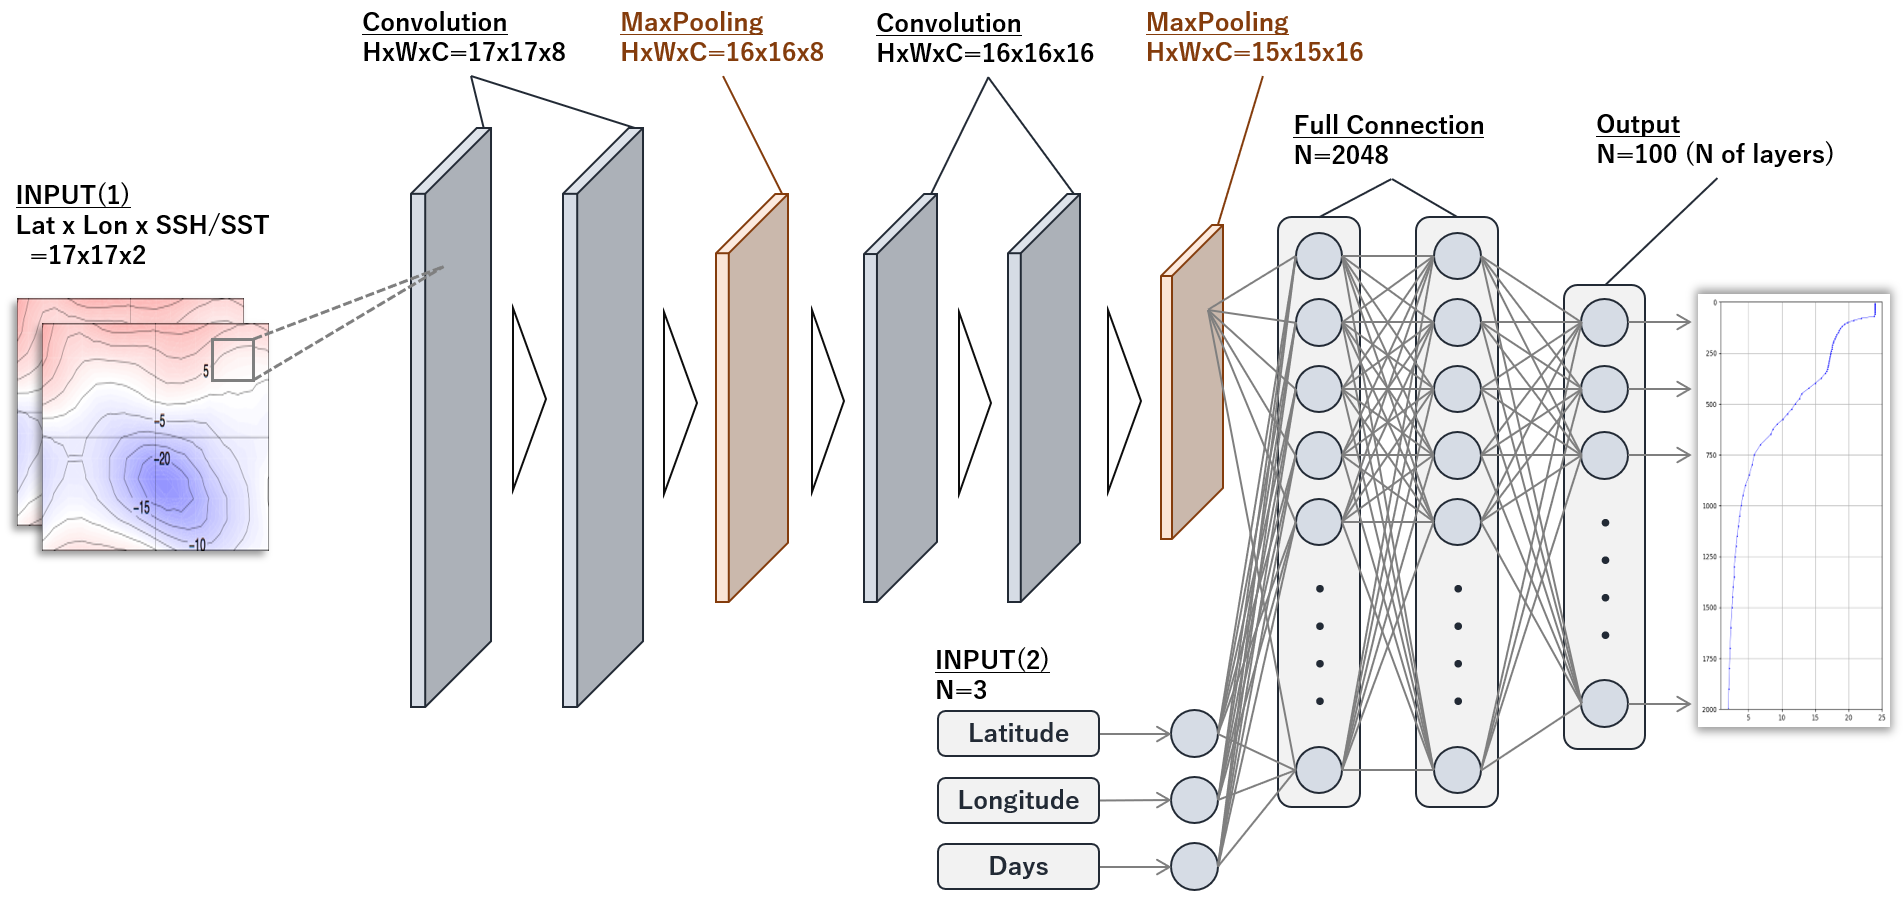
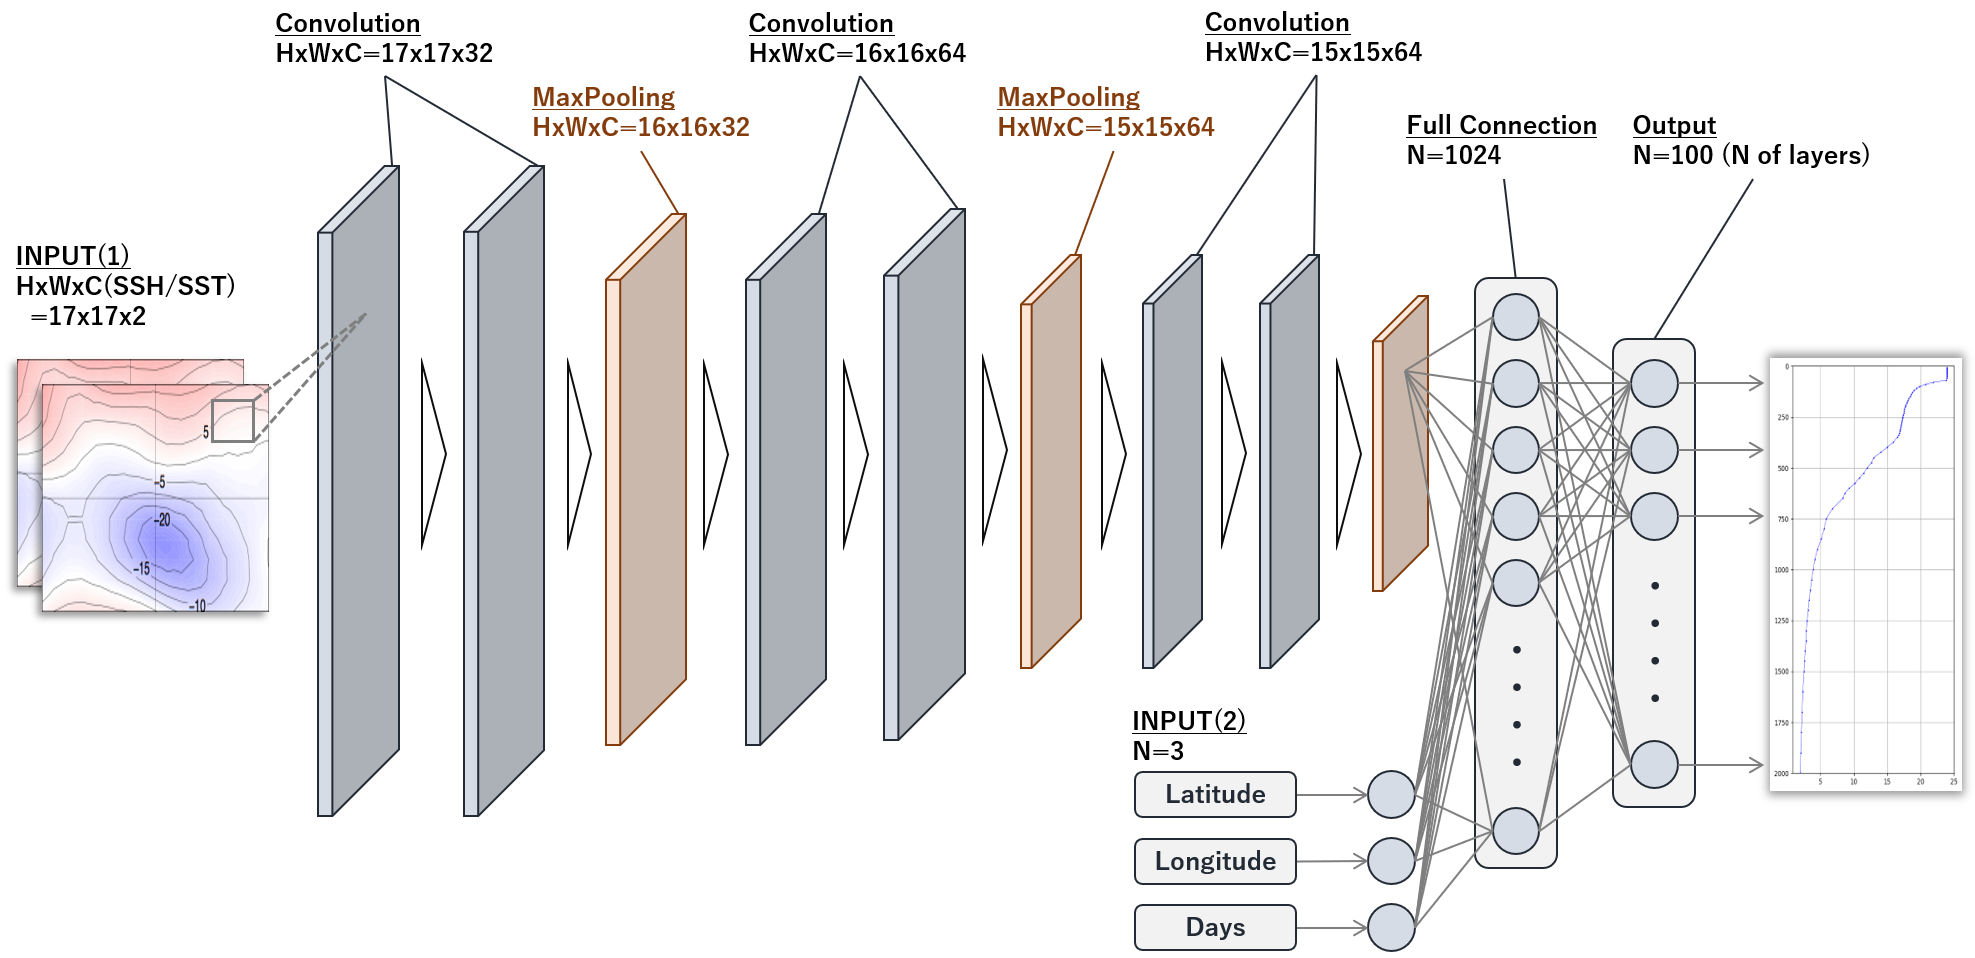
IN PRODUCTION

diff --git a/impulso.py b/impulso.py
@@ -5,20 +5,17 @@
 import os
 os.environ['IMPULSO_HOME'] = os.path.dirname(os.path.abspath(__file__))
 
+import importlib
 from pathlib import Path
 import datetime
 import argparse
+import numpy as np
+from tqdm import tqdm
+
 import src.lib.utils as utils
 from src.Aggregator import Aggregator
 from src.Preparer import Preparer
-from src.Trainer import Trainer
-from src.Inferencer import Inferencer
-"""
-from src.Evaluator import Evaluator
 
-from src.model.ImpulsoNet import ImpulsoNet
-
-"""
 from logging import DEBUG, INFO
 from logging import getLogger, StreamHandler, FileHandler, Formatter
 
@@ -97,6 +94,7 @@ class Impulso(object):
 
         # Create default hparams.yml for train, test and estimate
         utils.create_default_hparams(
+            aggregator.hparams,
             Path(aggregator.output_dir).joinpath('hparams.yml'),
             n_lat_grid, n_lon_grid, n_channel,
             n_layers_of_profile,
@@ -113,7 +111,7 @@ class Impulso(object):
         logger.info('Begin prepare of Impuslo')
 
         preparer = Preparer()
-        preparer.session(self.args.data_id)
+        preparer.session(self.args.data_id, preparer.experiment_id)
 
         logger.info(f'EXPERIMENT-ID: {preparer.experiment_id}')
         logger.info('End prepare of Impulso')
@@ -122,7 +120,8 @@ class Impulso(object):
     def train(self):
         logger.info('Begin train of Impulso')
 
-        trainer = Trainer(self.hparams['train'], self.args.experiment_id)
+        Trainer = importlib.import_module(f'experiments.{self.args.experiment_id}.src.Trainer')
+        trainer = Trainer.Trainer(self.hparams['train'], self.args.experiment_id)
 
         # Load data
         """
@@ -149,30 +148,37 @@ class Impulso(object):
 
     def inference(self):
         logger.info('Begin inference of Impulso')
-        inferencer = Inferencer(self.hparams['inference'], self.args.model_path, self.args.x_dir, self.args.y_dir)
-        
-        # Get array data
-        input_info, input_maps = inferencer.load_data()
 
-        # Get DataLoader
+        #Inferencer = importlib.import_module(f'experiments.{self.args.experiment_id}.src.Inferencer')
+        #inferencer = Inferencer.Inferencer(self.hparams['inference'], self.args.model_path, self.args.x_dir, self.args.y_dir)
+        from src.Inferencer import Inferencer
+        inferencer = Inferencer(self.hparams['inference'], self.args.model_path, self.args.x_dir, self.args.y_dir)
+
+        # Get array data
+        input_info, input_maps, date_array = inferencer.load_data()
+
+        # Create DataLoader
         data_loader = utils.infer_data_loader(input_info, input_maps)
+
+        # Get pressure information
+        pre_min = inferencer.hparams['interpolation']['min_pressure']
+        pre_max = inferencer.hparams['interpolation']['max_pressure']
+        pre_interval = inferencer.hparams['interpolation']['pressure_interval']
 
         # Inference
         output_generator = inferencer.infer(data_loader)
-        for output in output_generator:
-            print(output)
 
+        with open(inferencer.y_dir.joinpath(f'{inferencer.hparams["objective_variable"]}.csv'), 'w') as f:
 
+            # Write header
+            f.write('Date,Days,Latitude,Longitude,Pressure,Variable\n')
 
-
-
-
-
-
-
-
-
-
+            for output, date in tqdm(zip(output_generator, date_array)):
+                info, profile = output
+                info = info[0]
+                profile = profile[0]
+                for pressure, obj_value in zip(range(pre_min, pre_max+pre_interval, pre_interval), profile):
+                    f.write(f'{date},{info[0]},{info[1]},{info[2]},{pressure},{obj_value}\n')
 
         logger.info('End inference of Impulso')
 

diff --git a/src/model/_CNN.py b/src/model/_CNN.py
@@ -23,34 +23,33 @@ class DLModel(nn.Module):
         super(DLModel, self).__init__()
 
         self.block1 = nn.Sequential(
-            nn.Conv2d(in_channels=in_c, out_channels=32, kernel_size=conv_kernel, padding=1),
+            nn.Conv2d(in_channels=in_c, out_channels=16, kernel_size=conv_kernel, padding=1),
+            nn.ReLU(inplace=True),
+            nn.Conv2d(in_channels=16, out_channels=16, kernel_size=conv_kernel, padding=1),
+            nn.ReLU(inplace=True),
+            nn.Conv2d(in_channels=16, out_channels=16, kernel_size=conv_kernel, padding=1),
+            nn.ReLU(inplace=True),
+            nn.MaxPool2d(kernel_size=max_pool_kernel, stride=1),
+            nn.BatchNorm2d(16)
+        )
+        self.block2 = nn.Sequential(
+            nn.Conv2d(in_channels=16, out_channels=32, kernel_size=conv_kernel, padding=1),
+            nn.ReLU(inplace=True),
+            nn.Conv2d(in_channels=32, out_channels=32, kernel_size=conv_kernel, padding=1),
             nn.ReLU(inplace=True),
             nn.Conv2d(in_channels=32, out_channels=32, kernel_size=conv_kernel, padding=1),
             nn.ReLU(inplace=True),
             nn.MaxPool2d(kernel_size=max_pool_kernel, stride=1),
             nn.BatchNorm2d(32)
         )
-        self.block2 = nn.Sequential(
-            nn.Conv2d(in_channels=32, out_channels=64, kernel_size=conv_kernel, padding=1),
-            nn.ReLU(inplace=True),
-            nn.Conv2d(in_channels=64, out_channels=64, kernel_size=conv_kernel, padding=1),
-            nn.ReLU(inplace=True),
-            nn.MaxPool2d(kernel_size=max_pool_kernel, stride=1),
-            nn.BatchNorm2d(64)
-        )
-        self.block3 = nn.Sequential(
-            nn.Conv2d(in_channels=64, out_channels=64, kernel_size=conv_kernel, padding=1),
-            nn.ReLU(inplace=True),
-            nn.Conv2d(in_channels=64, out_channels=64, kernel_size=conv_kernel, padding=1),
-            nn.ReLU(inplace=True),
-            nn.MaxPool2d(kernel_size=max_pool_kernel, stride=1),
-            nn.BatchNorm2d(64)
-        )
         self.full_connection = nn.Sequential(
-            nn.Linear(in_features=64 * (in_h - 3) * (in_h - 3) + 3, out_features=1024), # '+3' means date, latitude and longitude
+            nn.Linear(in_features=32 * (in_h - 2) * (in_h - 2) + 3, out_features=2048), # '+3' means date, latitude and longitude
             nn.ReLU(),
             nn.Dropout(),
-            nn.Linear(in_features=1024, out_features=out_size, bias=False)
+            nn.Linear(in_features=2048, out_features=2048),
+            nn.ReLU(),
+            nn.Dropout(),
+            nn.Linear(in_features=2048, out_features=out_size, bias=False)
         )
 
 
@@ -60,10 +59,9 @@ class DLModel(nn.Module):
         # Convolutional layers
         x = self.block1(maps)
         x = self.block2(x)
-        x = self.block3(x)
 
         # Change 2-D to 1-D
-        x = x.view(x.size(0), 64 * 14 * 14)
+        x = x.view(x.size(0), 32 * 15 * 15)
 
         # Full connection layers
         y = self.full_connection(torch.cat([x, infos], dim=1))

diff --git a/src/Inferencer.py b/src/Inferencer.py
@@ -33,7 +33,7 @@ class Inferencer(object):
 
         # Set output directory
         if y_dir:
-            self.y_dir = y_dir
+            self.y_dir = Path(y_dir)
         else:
             self.y_dir = Path(IMPULSO_HOME).joinpath(f'tmp/{self.infer_id}')
         os.makedirs(self.y_dir, exist_ok=True)
@@ -56,6 +56,7 @@ class Inferencer(object):
 
         cropped_maps = []
         days_and_location = []
+        dates = []
 
         # Get date information
         current_date = netcdf_path.stem[-8:]
@@ -83,8 +84,9 @@ class Inferencer(object):
                 # Store data
                 cropped_maps.append(cropped)
                 days_and_location.append([days_elapsed, lat, lon])
+                dates.append(current_date)
         
-        return cropped_maps, days_and_location   
+        return cropped_maps, days_and_location, dates
 
 
     def load_data(self):
@@ -104,7 +106,7 @@ class Inferencer(object):
             if not (ssh_file.stem[-8:] == sst_file.stem[-8:]):
                 continue
 
-            ssh_crop_list, _ = self.get_array_data(
+            ssh_crop_list, _, _= self.get_array_data(
                 ssh_file,
                 self.hparams['region']['latitude']['min'],
                 self.hparams['region']['latitude']['max'],
@@ -114,7 +116,7 @@ class Inferencer(object):
                 self.hparams['crop_size']['zonal_distance_in_degree'],
                 data_type='ssh', grid_unit_in_degree=0.25)
 
-            sst_crop_list, info = self.get_array_data(
+            sst_crop_list, info, dates = self.get_array_data(
                 sst_file,
                 self.hparams['region']['latitude']['min'],
                 self.hparams['region']['latitude']['max'],
@@ -129,11 +131,12 @@ class Inferencer(object):
             input_info.extend(info)
 
             # Pack SSH and SST
+            logger.info('Packing SSH and SST...')
             input_maps = []
             for idx in range(len(ssh_cropped)):
                 input_maps.append([ssh_cropped[idx], sst_cropped[idx]])
 
-        return np.array(input_info), np.array(input_maps)
+        return np.array(input_info), np.array(input_maps), np.array(dates)
 
 
     def infer(self, data_loader):
@@ -171,7 +174,6 @@ class Inferencer(object):
                 output = model(maps, infos)
 
                 yield infos.to('cpu'), output.to('cpu')
-
 
 if __name__ == '__main__':
     """add"""

diff --git a/src/lib/utils.py b/src/lib/utils.py
@@ -9,6 +9,7 @@ import datetime
 from pathlib import Path
 import pickle
 from decimal import Decimal, ROUND_HALF_UP
+import numpy as np
 
 import torch
 from torch.utils.data import TensorDataset, DataLoader
@@ -116,7 +117,8 @@ def calc_days_elapsed(current_date, ref_date='2000-01-01'):
     return int(argo_jd - ref_jd)
 
 
-def create_default_hparams(output_path,
+def create_default_hparams(dataset_hparams,
+                           output_path,
                            input_h, input_w, input_c,
                            output_n,
                            reference_date='2000-01-01',
@@ -134,6 +136,7 @@ def create_default_hparams(output_path,
                                'zonal_distance_in_degree':4,
                                'meridional_distance_in_degree':4
                            },
+                           objective_variable='temperature',
                            num_workers=4,
                            test_split=0.2,
                            batch_size=128,
@@ -162,7 +165,7 @@ def create_default_hparams(output_path,
     train_hparams['epoch'] = epoch
     train_hparams['shuffle'] = True
     train_hparams['model_path'] = None
-    train_hparams['objective_variable'] = 'temperature'
+    train_hparams['objective_variable'] = objective_variable
     train_hparams['split_random_seed'] = 0
     train_hparams['period'] = 50
 
@@ -178,6 +181,8 @@ def create_default_hparams(output_path,
     inference_hparams['input_w'] = input_w
     inference_hparams['input_c'] = input_c
     inference_hparams['output_n'] = output_n
+    inference_hparams['interpolation'] = dataset_hparams['preprocess']['interpolation']
+    inference_hparams['objective_variable'] = objective_variable
 
     # Save
     hparams = {}
@@ -266,6 +271,11 @@ def save_model(model, save_path):
     torch.save(model.state_dict(), save_path)
     return 'Model was saved'
 
+"""
+def save_numpy_file(npy_obj, output_path):
+    logger.info('fSave numpy file: {output_path}')
+    np.save(Path(output_path), npy_obj)
+"""
 
 if __name__ == '__main__':
     """

diff --git a/src/lib/visualizer.py b/src/lib/visualizer.py
@@ -2,30 +2,23 @@
 # -*- encoding: UTF-8 -*-
 
 import os
+
 import numpy as np
-import cv2
-from PIL import Image
+import matplotlib.pyplot as plt
 
-def save_image(x_arr, y_arr, output_path):
+
+def lat_lon_grid(min_lat, max_lat, min_lon, max_lon, grid_unit=0.25):
+    max_lat += grid_unit
+    max_lon += grid_unit
+    x, y = np.mgrid[min_lat:max_lat:grid_unit, min_lon:max_lon:grid_unit]
+    return x, y
+
+
+def z_grid()
+
+def vertical_section(x_array, y_array, z_array):
     """
-    Args:
-        x: Array of resized original image.
-        y: Array of predicted result.
-        output_path: Output path with filename.
     """
-
-    x_image = Image.fromarray(x_arr)
-    x_image -= np.min(x_image)
-    x_image = np.minimum(x_image, 255)
-
-    y_image = Image.fromarray(y_arr)
-    heatmap = y_image / np.max(y_image)
-    y_image = cv2.applyColorMap(np.uint8(255 * heatmap), cv2.COLORMAP_JET)
-
-    output_image = np.float32(y_image) + np.float32(x_image)
-    output_image = 255 * output_image / np.max(output_image)
-
-    cv2.imwrite(output_path, output_image)
 
 
 if __name__ == '__main__':

diff --git a/src/Preparer.py b/src/Preparer.py
@@ -24,15 +24,16 @@ class Preparer(object):
         logger.info('End of init of Preparer')
 
 
-    def session(self, data_id):
+    def session(self, data_id, experiment_id):
         """
         Args:
             all_hparams : hparams.yml with parameters of train, test and estimate 
         """
-        # Load template_hparams.yml and add data_id
+        # Load hparams.yml and add IDs
         all_hparams = utils.load_hparams(Path(IMPULSO_HOME).joinpath(f'datasets/{data_id}/hparams.yml'))
         all_hparams['train']['data_id'] = data_id
-        all_hparams['test']['data_id'] = data_id
+        all_hparams['train']['experiment_id'] = experiment_id
+        all_hparams['inference']['experiment_id'] = experiment_id
 
         # Make output directory
         os.makedirs(self.output_dir.joinpath('models'), exist_ok=True)

diff --git a/src/Trainer.py b/src/Trainer.py
@@ -131,7 +131,7 @@ class Trainer(object):
 
             # Save model in each period
             if epoch % self.hparams['period'] == 0:
-                save_path = self.output_dir.joinpath(f'models/model-{str(epoch).zfill(5)}.pth')
+                save_path = self.output_dir.joinpath(f'models/{self.hparams["objective_variable"]}_model-{str(epoch).zfill(5)}.pth')
                 utils.save_model(model, save_path)
                 logger.info(f'Saved model at Epoch : {epoch:05}')
 
